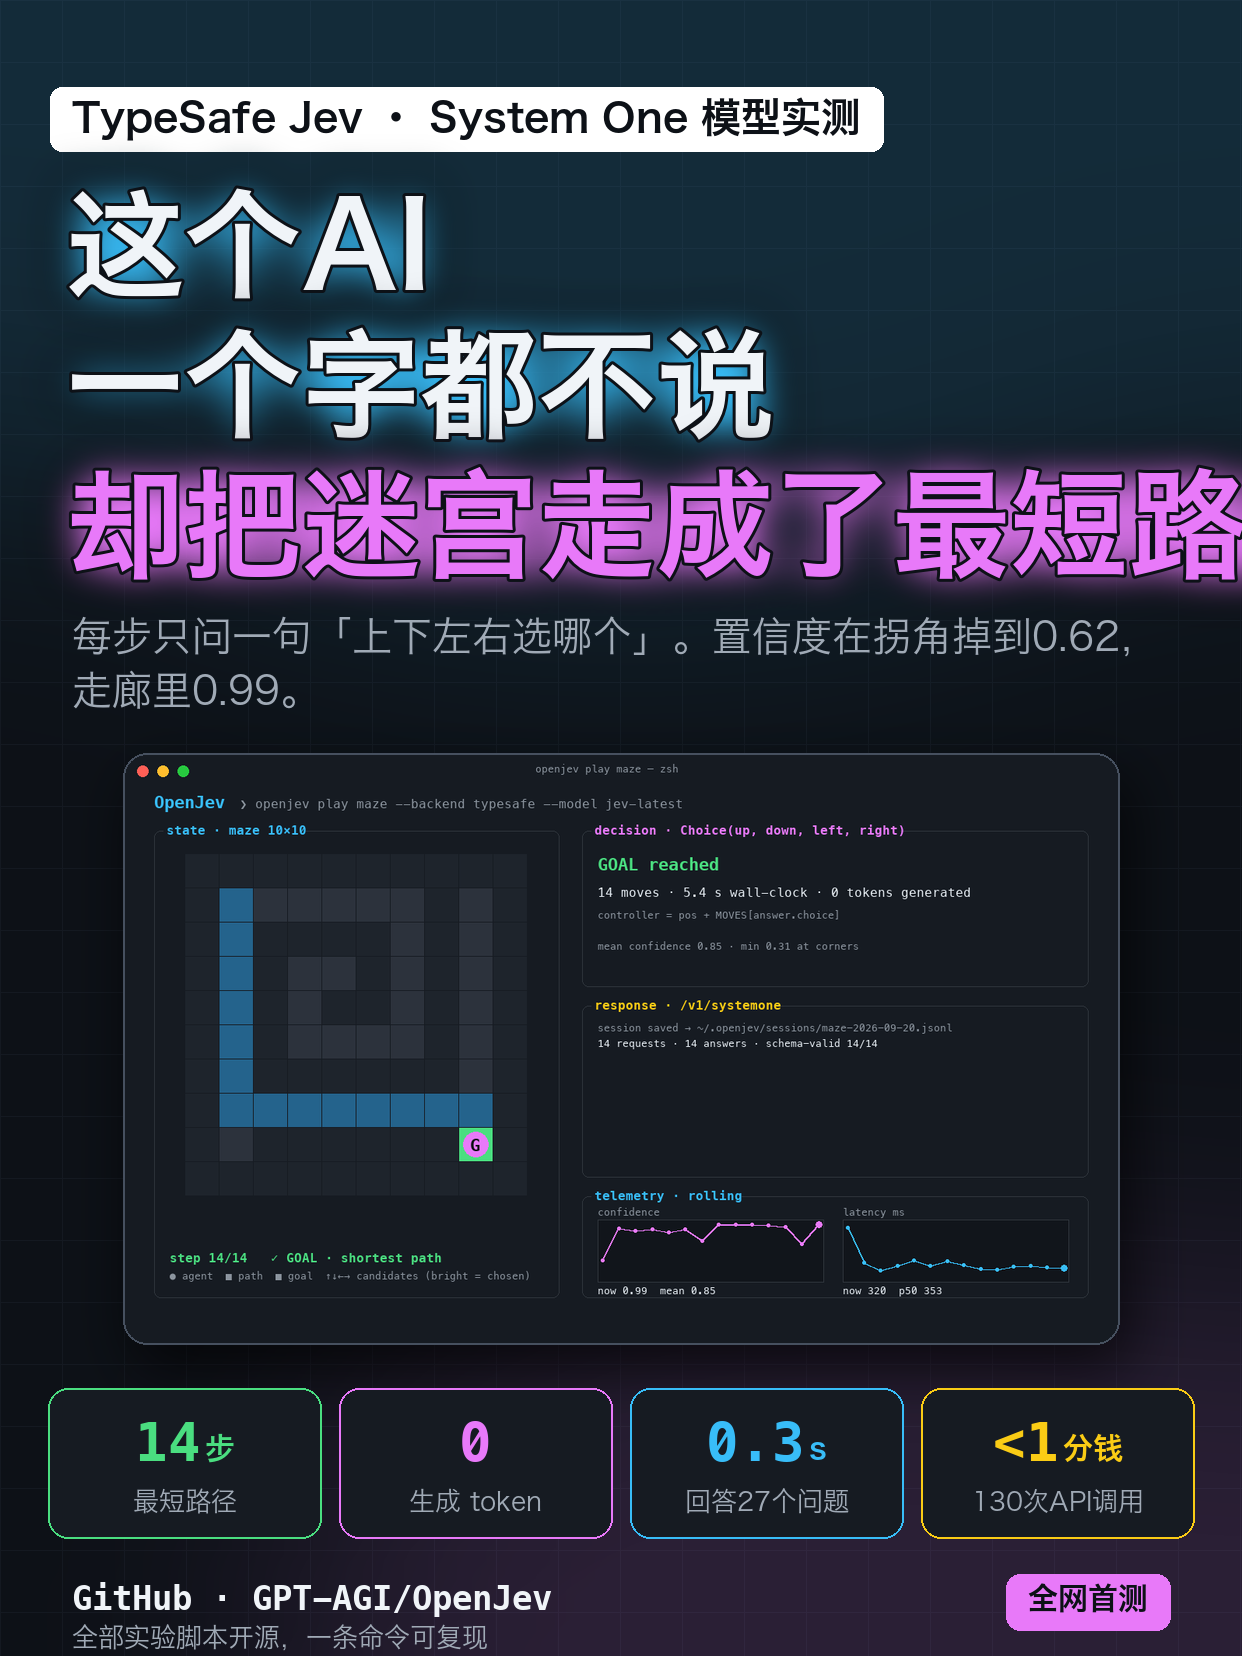
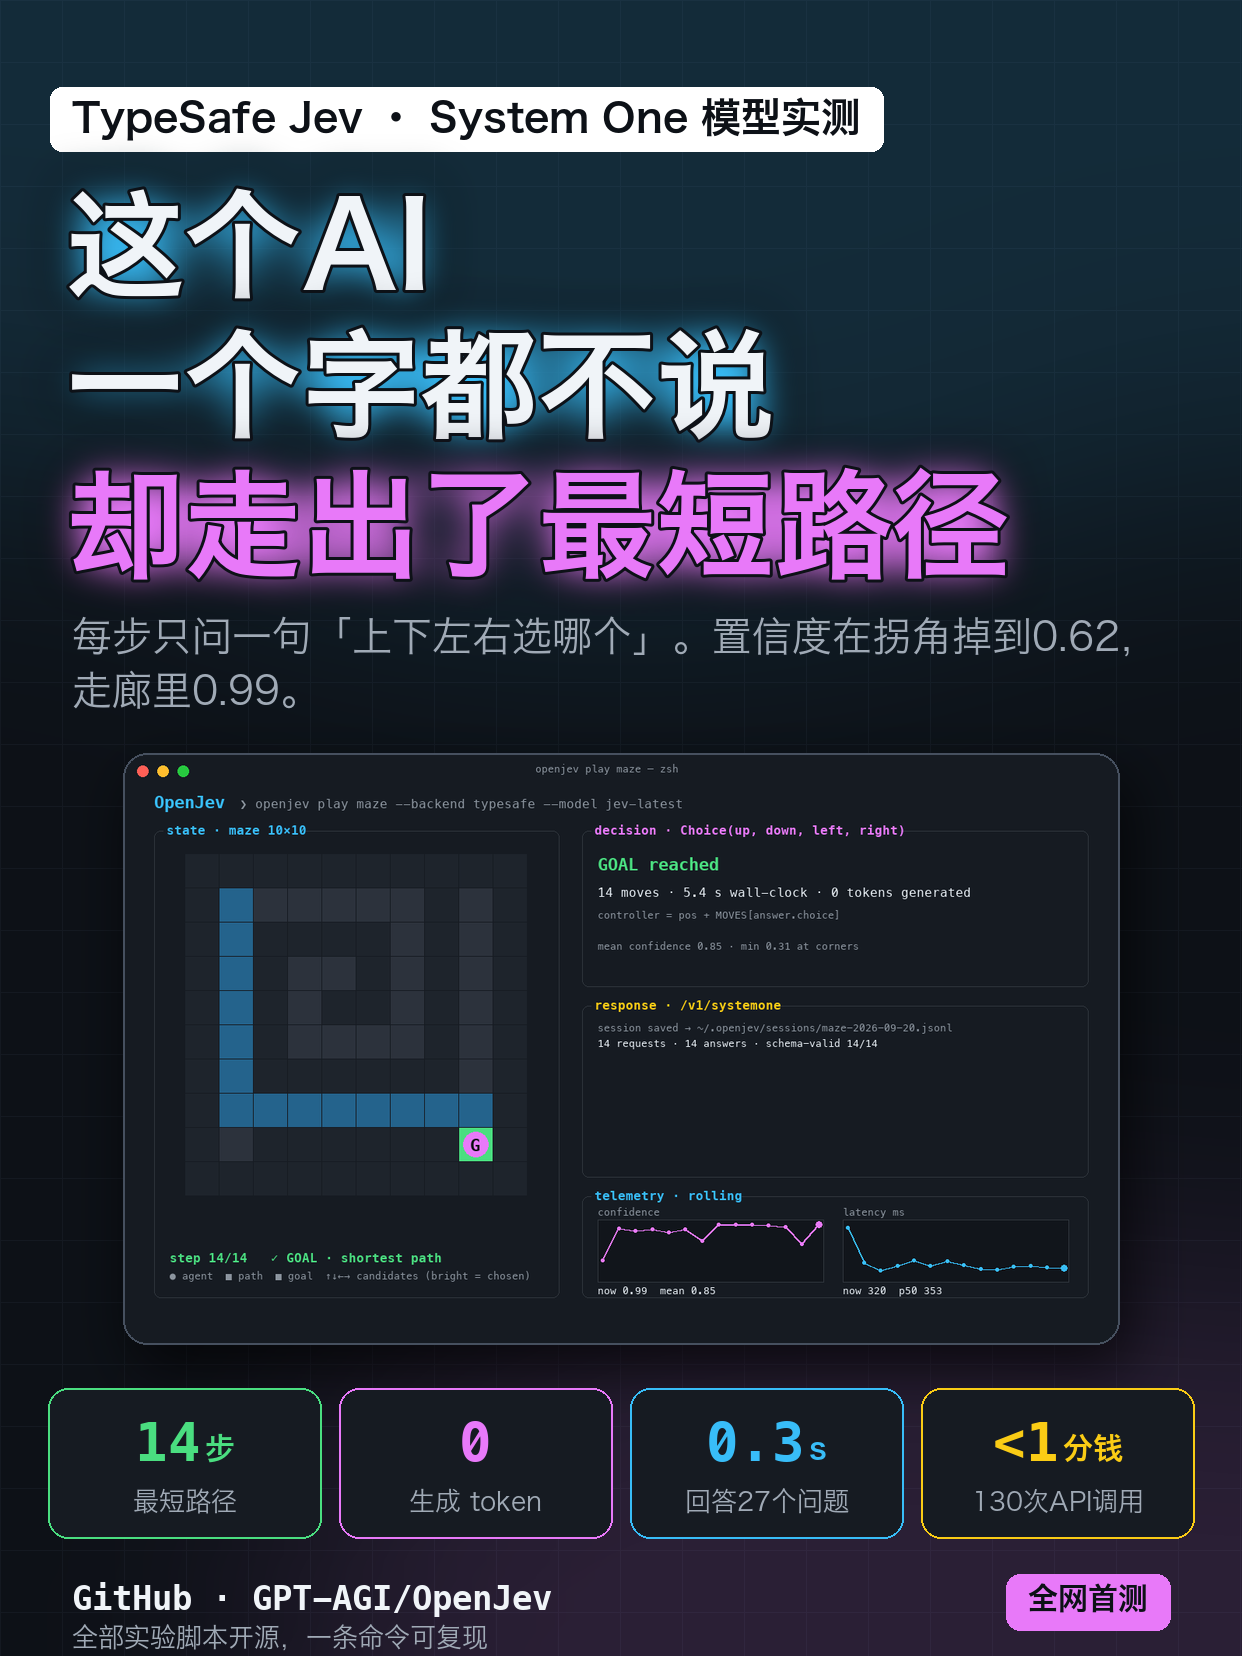
social: fix v3 headline overflow

Changed region(s): [[0.153, 0.2772, 1.0, 0.3696]]

diff --git a/scripts/make_cover.py b/scripts/make_cover.py
@@ -171,7 +171,7 @@ if __name__ == "__main__":
         accent=CYAN,
     )
     build(
-        ["这个AI", "一个字都不说", "却把迷宫走成了最短路"],
+        ["这个AI", "一个字都不说", "却走出了最短路径"],
         "TypeSafe Jev · System One 模型实测",
         "每步只问一句「上下左右选哪个」。置信度在拐角掉到0.62，走廊里0.99。",
         "cover-xhs-v3.png",
